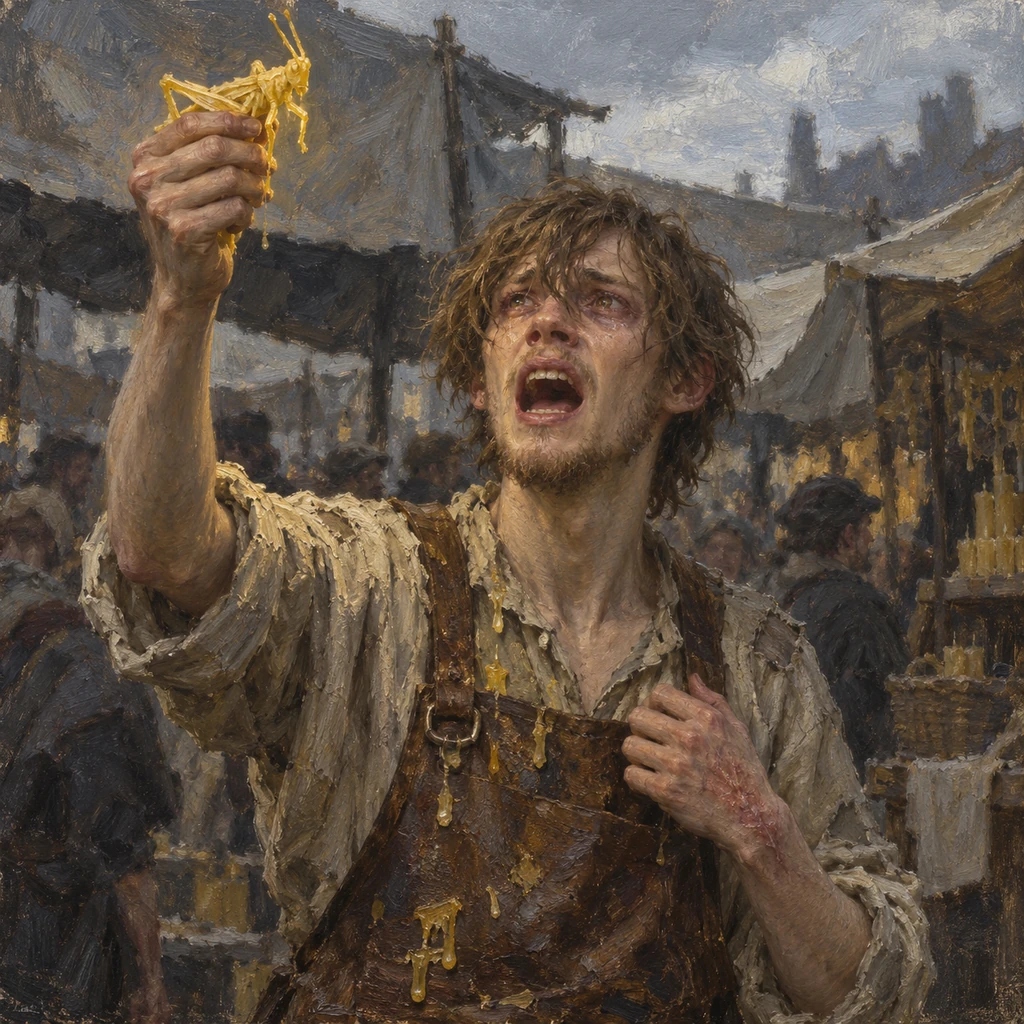
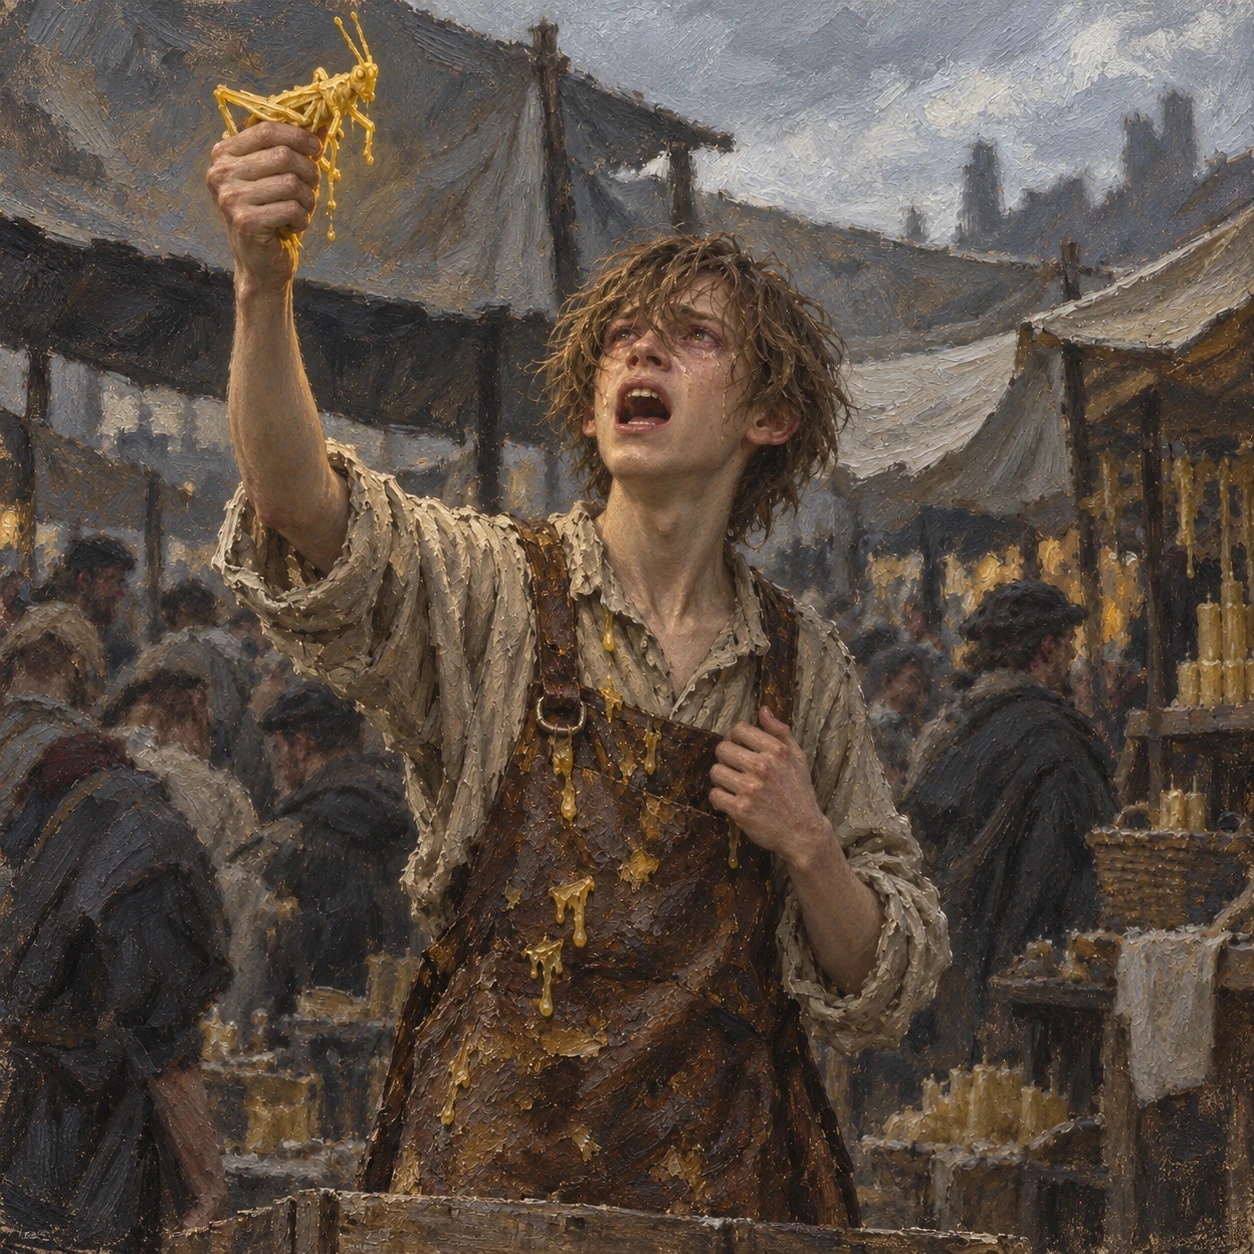
Repaint Jory at sixteen
The module paints him as a man in his twenties. At the table he was
played as sixteen and not shaving, and Chapter I says so - which the
picture contradicted the moment it went on the page. Regenerated from
the module''s own composition, same moment and same wax locust, with the
face and build aged down: no facial hair, soft jaw, thin neck, clothes a
size too big, and the candle stalls of his own trade behind him.

Serves both the Cast gallery and the chapter figure, so it stays square.
CANON.md records that where the module and the table disagree about a
person, the table wins and the art follows the table.

diff --git a/characters/CANON.md b/characters/CANON.md
@@ -75,7 +75,7 @@ Brought over after session 1, keyed to their Cast names and wired into `PORTRAIT
 | Character | Portrait | Cast group |
 |---|---|---|
 | **Mira Thistledance** | [`mira-thistledance.webp`](mira-thistledance.webp) | Employers |
-| **Jory Tallow** | [`jory-tallow.webp`](jory-tallow.webp) | Met in Drezen |
+| **Jory Tallow** | [`jory-tallow.webp`](jory-tallow.webp) — **repainted 2026-09-20**, see below | Met in Drezen |
 | **Pip Venn** | [`pip-venn.webp`](pip-venn.webp) | Met in Drezen |
 | **Oskar Venn** | [`oskar-venn.webp`](oskar-venn.webp) | Met in Drezen |
 | **Wat Crake** | [`wat-crake.webp`](wat-crake.webp) | Met in Drezen |
@@ -93,3 +93,11 @@ Brought over after session 1, keyed to their Cast names and wired into `PORTRAIT
 
 Available in the module and **not** brought over yet, because the company has not met them:
 `sera-dolvan`, `corin-dolvan`, `dolvan-infant`, `yard-dog`, and the whole of the manor cast.
+
+**Jory Tallow's portrait is no longer the module's.** The module paints him as a man in his
+twenties; at the table he was played as sixteen and not yet shaving, and Chapter I says so. The
+portrait was regenerated from the module's own composition — same moment, same wax locust held
+aloft, same wax-spotted apron, same grey market — with the face and build aged down to a boy's:
+no facial hair at all, soft jaw, thin neck and wrists, clothes a size too big. **Where the module
+and the table disagree about a person, the table wins and the art follows the table.** The
+discrepancy is logged in `bible/06-in-world-calendar.md`.

diff --git a/bible/06-in-world-calendar.md b/bible/06-in-world-calendar.md
@@ -67,7 +67,9 @@ Commission* records. The chronicle follows the table in every case below; Matt r
   campaign is thirteen days after the liberation instead of ten weeks, and a good deal of the
   city's settledness has to go.
 - **Jory Tallow's age.** The module calls him a twenty-year-old. At the table he was played as
-  sixteen and "not shaving yet". Chapter I has him at sixteen at most.
+  sixteen and "not shaving yet". Chapter I has him at sixteen at most, and **his portrait was
+  repainted on 2026-09-20 to match the table** rather than the module, so the prose and the picture
+  now agree. The module's own art still shows a man in his twenties.
 - **Jory's master.** The module has the master die in the fire at Kenabres. At the table he is
   alive in Drezen, keeps the candle shop, and closed it to go and speak for the boy. Chapter I has
   him alive.
